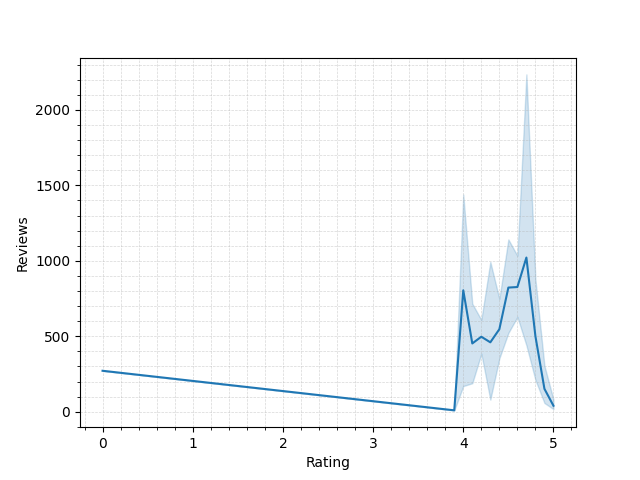
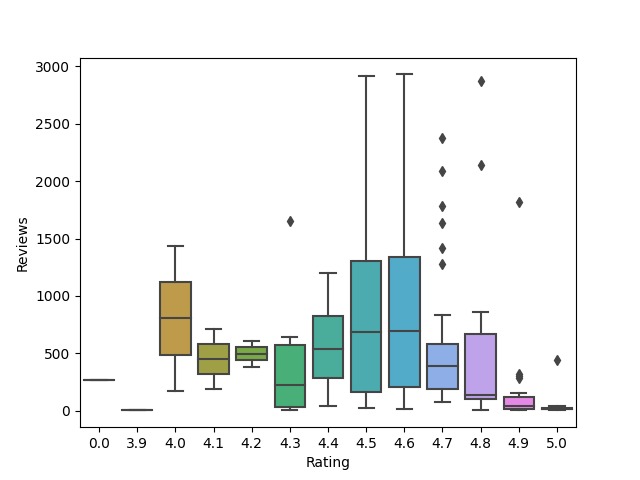
Draft answer to Q4

diff --git a/question4.py b/question4.py
@@ -6,9 +6,11 @@ import seaborn as sns
 # Reading file to dataframe
 coffee = pd.read_csv('coffee_clean.csv')
 
+#to drop the annomaly
+coffee_cleaned = coffee.loc[coffee['Reviews'] != 17937.0]
+
+
 # make graph prettier
 # add labeled title etc.
-sns.lineplot(x='Rating', y='Reviews', data=coffee)
-plt.minorticks_on()
-plt.grid(which='both', linewidth=0.5, alpha=0.5, linestyle='--')
+sns.boxplot(x='Rating', y='Reviews', data=coffee_cleaned)
 plt.savefig('question4_visual.png', format='png')

diff --git a/question3.py b/question3.py
@@ -25,3 +25,5 @@ sns.histplot(stores_grouped_rating_clean.index, kde=True)
 plt.title('Distribution for number of resturant reviews', y=1.05)
 plt.xlabel('Reviews')
 plt.savefig('question3_visual_clean.png', format='png')
+
+stores_grouped_rating_clean.to_csv('coffee_clean_v2.csv')
